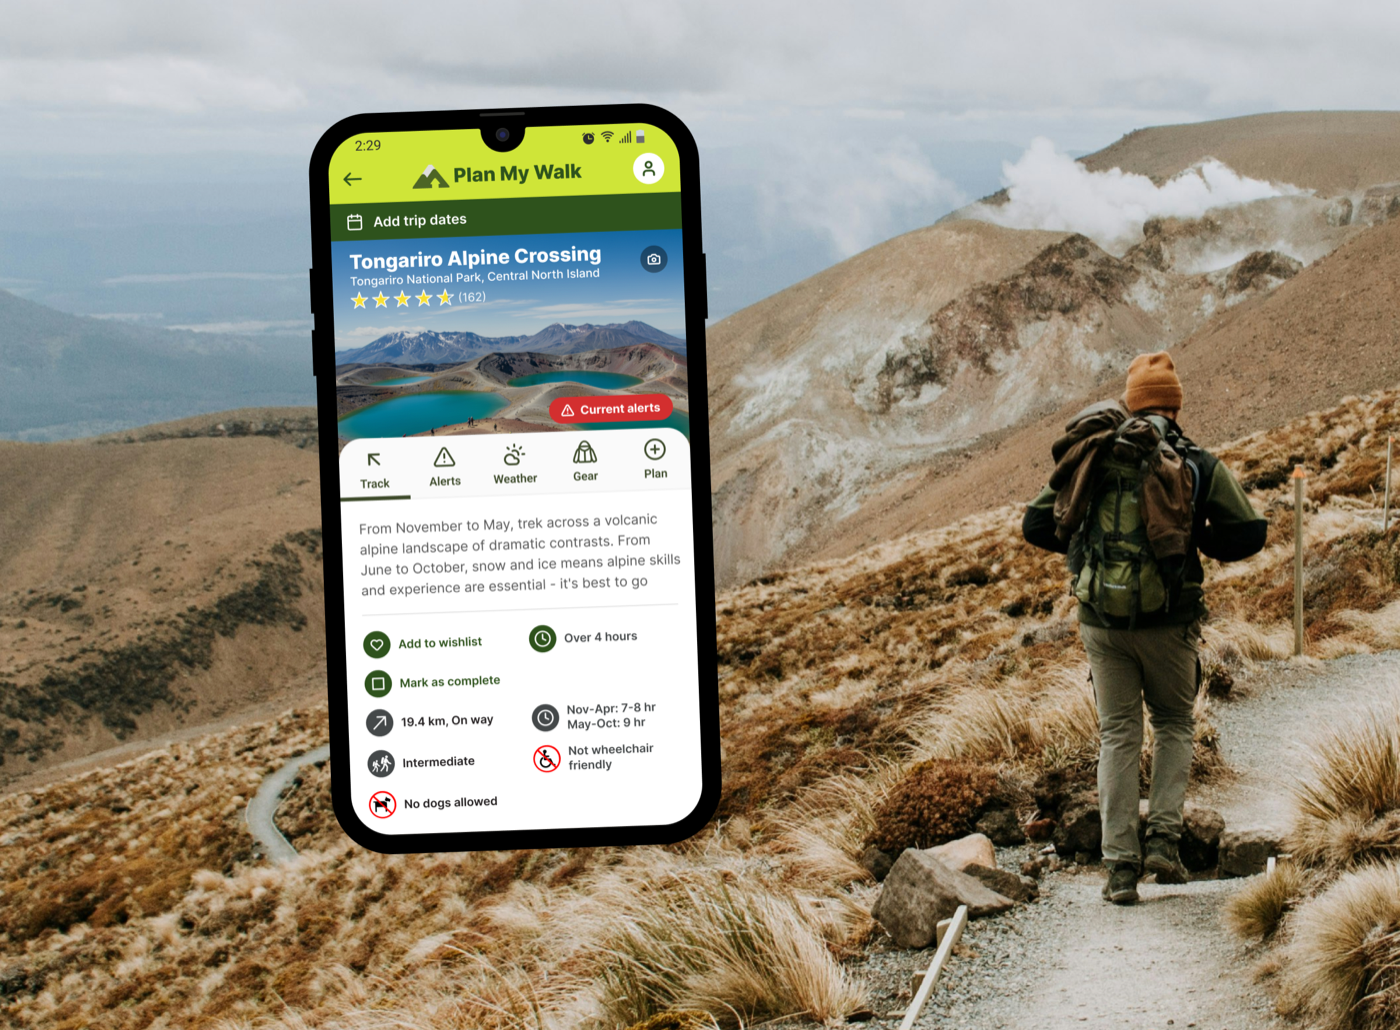
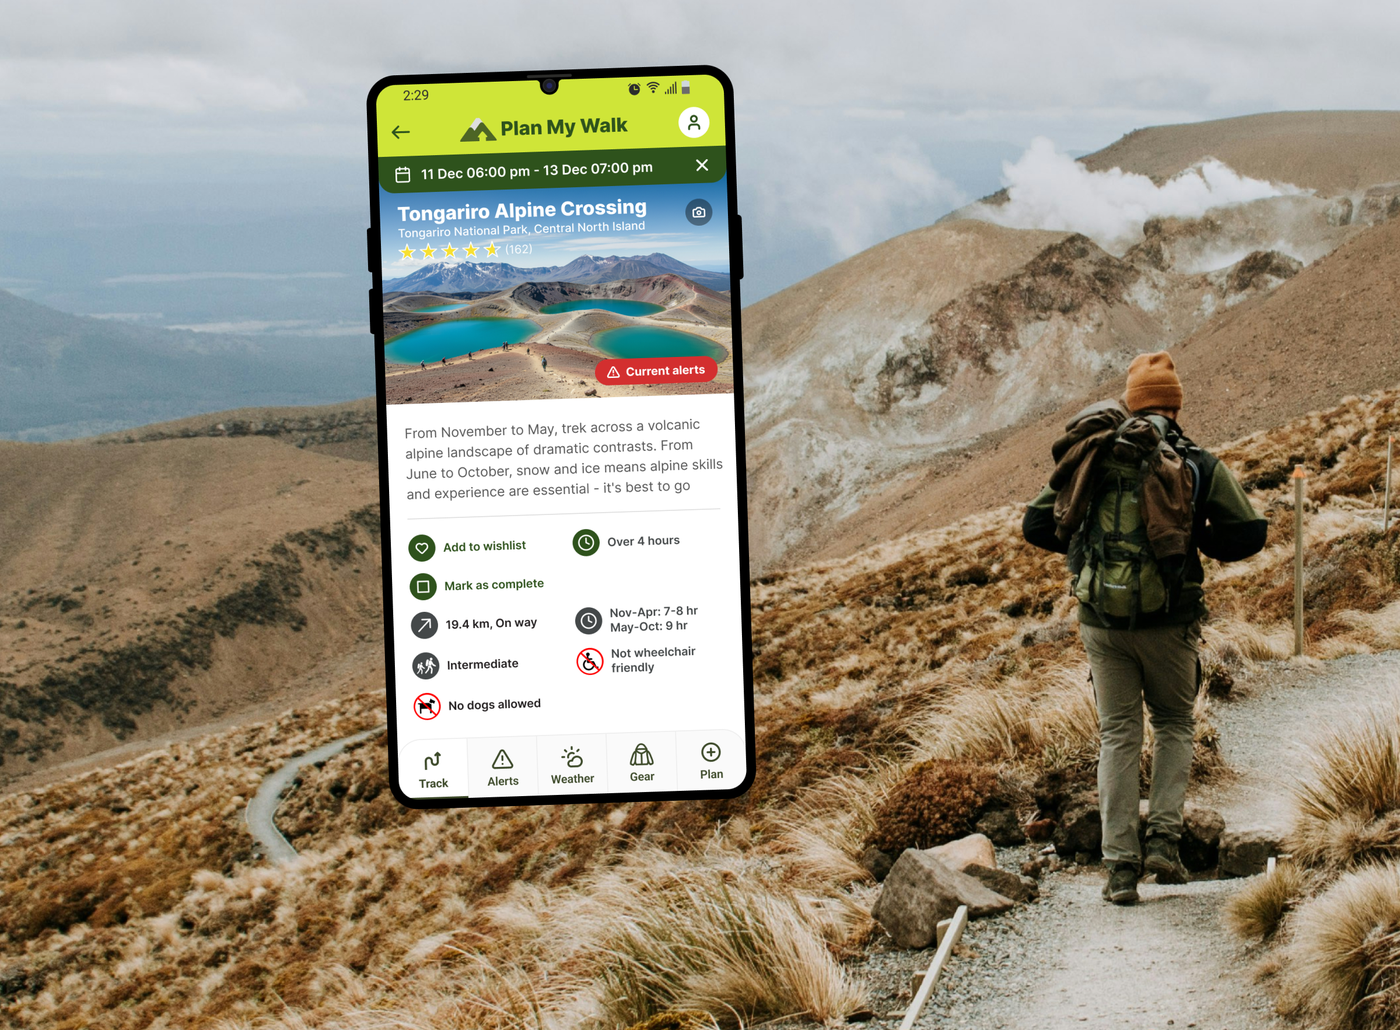
Image updates

Changed region(s): [[0.215, 0.0621, 0.5529, 0.8388]]

diff --git a/src/data/case-studies/keeping-kiwis-safe.ts b/src/data/case-studies/keeping-kiwis-safe.ts
@@ -4,15 +4,20 @@ import type { CaseStudy } from "../../lib/case-study";
 // Council. Scaffolded 2026-09-06 from Figma frame 245:233155
 // ("Case Study - keeping-kiwis-safe", file aX33B4dvgRAkY1eo6olJj6). Copy is
 // transcribed verbatim from that frame's text nodes (Figma is the source of
-// truth for this one — no handover MD). **Assets are not done yet**: every
-// image below is a placeholder (no `src`, so CaseStudyImage/Cover render a
-// labelled grey box). Wire real files under /images/keeping-kiwis-safe/
-// once exported, and revisit the image-band layouts + quote-slider
-// accentColors then. Structure mirrors farmiq-thrive.ts / design-leadership.ts.
+// truth for this one — no handover MD). Structure mirrors farmiq-thrive.ts /
+// design-leadership.ts.
+//
+// Assets (2026-09-09): all image slots wired. Eight are Sarah's own hi-res
+// composite exports from ~/Documents/New Website/Plan My Walk/; four had no
+// finished local export (Situation "sprint map", the two hand-holding-phone
+// grid shots, and the Shift snowy-mountains shot) and were taken from the
+// Figma frame exports — swap to hi-res if Sarah supplies them.
 //
 // Figma TBD slots left unfilled on purpose (don't invent filler):
 //   - The Calls I Made: a 5th slot ("MD only supplies 4 real items")
 //   - The Outcome: two extra "down" signal slots (no down-signal data)
+//   - Image grid rows 1 & 2 share placeholder captions in Figma — verbatim
+//     for now, Sarah to finalise the copy.
 export const keepingKiwisSafe: CaseStudy = {
   slug: "keeping-kiwis-safe",
   title: "The App Keeping Kiwis Safe \nOutdoors",
@@ -27,8 +32,10 @@ export const keepingKiwisSafe: CaseStudy = {
       aspect: "16/9",
     },
     deviceImage: {
+      // Hero-PMW.png — three phones: the Tongariro Northern Circuit topo map,
+      // the Alpine Crossing track screen, and a Cass-Lagoon weather forecast.
       src: "/images/keeping-kiwis-safe/cover-float.png",
-      alt: "Plan My Walk app — the Tongariro Alpine Crossing track screen",
+      alt: "Plan My Walk app — a track map, a track detail screen, and a weather forecast",
       aspect: "1800/1014",
     },
   },
@@ -54,6 +61,13 @@ export const keepingKiwisSafe: CaseStudy = {
           label: "Design recognition",
           value: "Finalist",
           context: "Best Design Awards 2022, Value of Design category.",
+          // "Best." roundel beside the Finalist value (Sarah's pre-cropped
+          // "Best Awards copy.png" — circle only, text cropped out).
+          badge: {
+            src: "/images/keeping-kiwis-safe/best-awards-badge.png",
+            alt: "Best Design Awards Finalist",
+            aspect: "1/1",
+          },
         },
       ],
       paragraphs: [
@@ -113,11 +127,8 @@ export const keepingKiwisSafe: CaseStudy = {
       ],
     },
     {
-      // Figma "Frame 28" (306:353485) — the Situation supporting images are
-      // still FarmIQ placeholders in Figma with "TBD" captions, so this band
-      // stays a placeholder here too (per Sarah: don't drop FarmIQ art in).
-      // Two stacked full-width assets in the design; modelled as one wide
-      // two-up for now.
+      // Figma "Frame 28" (306:353485), top row — old MSC "Plan My Trip" web
+      // tool vs. the Design Sprint map, full-bleed two-up.
       type: "imageBand",
       spacingBefore: "tight",
       wide: true,
@@ -125,12 +136,40 @@ export const keepingKiwisSafe: CaseStudy = {
       layout: "two-equal",
       images: [
         {
-          alt: "The old MSC website safety tool",
+          src: "/images/keeping-kiwis-safe/situation-old-tool.jpg",
+          alt: "MSC's old Plan My Trip web tool — a form of activity tiles over a mountain photo",
+          caption:
+            "Plan My Trip: fill out a form, download a PDF. Not how people actually plan an adventure.",
+          captionTone: "light",
           aspect: "600/400",
         },
         {
-          alt: "Plan My Walk app replacing the web tool",
+          src: "/images/keeping-kiwis-safe/situation-sprint-map.jpg",
+          alt: "A topo map with track markers and a Cass Saddle Hut detail card",
+          caption:
+            "In the Design Sprint with the experts in the room we co-designed the solution.",
+          captionTone: "light",
           aspect: "600/400",
+        },
+      ],
+    },
+    {
+      // Figma "Frame 28" (306:353485), lower row — the 5-phase Design Sprint
+      // diagram (Understand / Sketch / Decide / Prototype / Test) on a topo
+      // map ground. Kept at the export's native ~3.04 ratio so no phase card
+      // clips. Caption sits on the light map, so dark text, no scrim.
+      type: "imageBand",
+      spacingBefore: "tighter",
+      wide: true,
+      background: "dots",
+      layout: "single",
+      images: [
+        {
+          src: "/images/keeping-kiwis-safe/situation-design-sprint.jpg",
+          alt: "Design Sprint phases: Understand, Sketch, Decide, Prototype, Test",
+          caption: "Design Sprint",
+          captionTone: "dark",
+          aspect: "2400/790",
         },
       ],
     },
@@ -188,51 +227,24 @@ export const keepingKiwisSafe: CaseStudy = {
         "**Plan** — A trip planner that ties it together: add the people joining, set an emergency contact, upload trip notes. If someone hasn’t returned by their planned date, their emergency contact is prompted to call Search & Rescue, turning a simple trip plan into a real safety mechanism, not just a checklist.",
         "Once the plan is complete, share it and go, peace of mind that if something goes wrong, help is already on the way. Free to use, and made by trampers, for trampers.",
       ],
+      // Figma 306:353591 — 339px square asset, 71px gap to the copy column.
+      imageMaxWidth: 339,
+      copyImageGap: 71,
       image: {
-        // TODO(Sarah): the square "Where are you going Tess?" track-search
-        // screen composited over the uphill-tramper photo (Figma 306:353592)
-        // — point me at that file.
-        alt: "Plan My Walk app — track search screen over a tramper heading uphill",
+        // Sarah's own photo (trampingbush.jpg). The Figma fill shows the full
+        // 3:2 frame height with a horizontal window (~18%–85% of width); that
+        // crop is baked into the 678² export, so object-cover has nothing left
+        // to trim.
+        src: "/images/keeping-kiwis-safe/solution-tramping-bush.jpg",
+        alt: "Two trampers with packs walking a bush track in New Zealand",
         aspect: "1/1",
       },
     },
     {
-      // Figma "Image grid" (245:233199) row 1 — three portrait shots.
-      type: "imageBand",
-      spacingBefore: "tighter",
-      wide: true,
-      background: "solid",
-      layout: "three-grid",
-      images: [
-        {
-          // TODO(Sarah): row-1 left — the create-account / track-list screens
-          // over the "people looking at mountains" photo. Which file?
-          alt: "Track search and community difficulty ratings in the app",
-          caption: "Search for a track that works for your comfort zone.",
-          captionTone: "light",
-          aspect: "400/600",
-          aspectMobile: "1/1",
-        },
-        {
-          src: "/images/keeping-kiwis-safe/grid-alerts.png",
-          alt: "Plan My Walk Alerts and Weather screens for the Tongariro Alpine Crossing",
-          caption: "DOC track & MetService weather alerts in one place.",
-          captionTone: "dark",
-          aspect: "400/600",
-          aspectMobile: "1/1",
-        },
-        {
-          src: "/images/keeping-kiwis-safe/grid-weather-map.png",
-          alt: "A tramper checking a track weather forecast on their phone over a topo map",
-          caption: "Check the weather for the time of the trip you’re planning.",
-          captionTone: "light",
-          aspect: "400/600",
-          aspectMobile: "1/1",
-        },
-      ],
-    },
-    {
-      // Figma "Image grid" (245:233199) row 2 — one full-width band.
+      // Figma image grid (322:354690) — full-bleed two-up, 6:4 each.
+      // NOTE: rows 1 & 2 carry the same two captions in Figma ("Search for
+      // a track…" / "On all tracks…") — placeholder copy Sarah still has to
+      // work through; transcribed verbatim for now, revisit before launch.
       type: "imageBand",
       spacingBefore: "tighter",
       wide: true,
@@ -240,17 +252,65 @@ export const keepingKiwisSafe: CaseStudy = {
       layout: "two-equal",
       images: [
         {
-          src: "/images/keeping-kiwis-safe/grid-gear.png",
-          alt: "A tramper ticking off a suggested gear list on their phone, gear laid out below",
+          src: "/images/keeping-kiwis-safe/grid-track-search.jpg",
+          alt: "Three phone screens: track search, the Tongariro Alpine Crossing, and a date picker",
+          caption: "Search for a track that works for your comfort zone.",
+          captionTone: "light",
+          aspect: "600/400",
+        },
+        {
+          src: "/images/keeping-kiwis-safe/grid-web-reviews.jpg",
+          alt: "The Plan My Walk web track page for the Tongariro Northern Circuit, with community reviews",
+          caption: "On all tracks you can see other’s reviews.",
+          captionTone: "light",
+          aspect: "600/400",
+        },
+      ],
+    },
+    {
+      // Figma image grid (330:357558) — row 2.
+      type: "imageBand",
+      spacingBefore: "tighter",
+      wide: true,
+      background: "solid",
+      layout: "two-equal",
+      images: [
+        {
+          src: "/images/keeping-kiwis-safe/grid-alerts-weather.jpg",
+          alt: "Three phone screens: the Alpine Crossing, MSC alerts, and a track weather forecast",
+          caption: "Search for a track that works for your comfort zone.",
+          captionTone: "light",
+          aspect: "600/400",
+        },
+        {
+          src: "/images/keeping-kiwis-safe/grid-hand-phone-map.jpg",
+          alt: "A tramper checking a track weather forecast on their phone over a paper map",
+          caption: "On all tracks you can see other’s reviews.",
+          captionTone: "light",
+          aspect: "600/400",
+        },
+      ],
+    },
+    {
+      // Figma image grid (322:354741) — row 3.
+      type: "imageBand",
+      spacingBefore: "tighter",
+      wide: true,
+      background: "solid",
+      layout: "two-equal",
+      images: [
+        {
+          src: "/images/keeping-kiwis-safe/grid-hand-phone-gear.jpg",
+          alt: "A tramper checking a suggested gear list on their phone, gear laid out on the ground",
           caption: "Tick off the gear as you prepare for your trip.",
           captionTone: "light",
           aspect: "600/400",
         },
         {
-          src: "/images/keeping-kiwis-safe/grid-plan.png",
-          alt: "Plan My Walk trip-plan and emergency-contact screens",
+          src: "/images/keeping-kiwis-safe/grid-trip-plan.jpg",
+          alt: "Three phone screens: the gear list, trip-plan builder, and shared-plan confirmation",
           caption: "Share your plan with your emergency contact.",
-          captionTone: "dark",
+          captionTone: "light",
           aspect: "600/400",
         },
       ],
@@ -264,18 +324,22 @@ export const keepingKiwisSafe: CaseStudy = {
       ],
     },
     {
-      // Figma "The Shift" band (245:233164) is still FarmIQ placeholder art
-      // — left as a placeholder here (per Sarah: no FarmIQ images).
+      // Figma "The Shift" band (328:356326) — content-column two-up (not
+      // full-bleed), no overlay captions; the italic line below is Figma's
+      // standalone note (316:354311).
       type: "imageBand",
       spacingBefore: "tight",
       layout: "two-equal",
+      note: "Every shoulder season, MSC promotes Plan My Walk with local tracks, still keeping Kiwis safe outdoors.",
       images: [
         {
-          alt: "The retired MSC web safety tool",
+          src: "/images/keeping-kiwis-safe/shift-advert.jpg",
+          alt: "The Plan My Walk home screen on a phone over a tussock ridge, a tramper with arms raised behind it",
           aspect: "600/400",
         },
         {
-          alt: "Plan My Walk usage climbing after launch",
+          src: "/images/keeping-kiwis-safe/shift-mountains.jpg",
+          alt: "A hooded tramper on a boardwalk track heading toward mist-covered snowy mountains",
           aspect: "600/400",
         },
       ],

diff --git a/src/lib/case-study.ts b/src/lib/case-study.ts
@@ -75,6 +75,11 @@ export interface StatCallout {
   label: string;
   value: string;
   context: string;
+  /**
+   * Small badge image shown beside the value (Figma's "Best." award roundel
+   * next to the Finalist stat). Rendered ~72px tall, alpha preserved.
+   */
+  badge?: CaseStudyImage;
 }
 
 export interface NumberedItem {
@@ -147,6 +152,17 @@ export type CaseStudySection = (
       heading: string;
       paragraphs: string[];
       image: CaseStudyImage;
+      /**
+       * Desktop max-width of the image column in px, from the Figma asset
+       * frame. Defaults to 267 (the farmiq-thrive portrait slot the shared
+       * layout was first built for).
+       */
+      imageMaxWidth?: number;
+      /**
+       * Desktop gap between the copy column and the image, in px, from the
+       * Figma spacing. Defaults to 40 (`--spacing-lg`).
+       */
+      copyImageGap?: number;
     }
   | {
       type: "imageBand";
@@ -160,6 +176,12 @@ export type CaseStudySection = (
       images: CaseStudyImage[];
       /** Breaks out to the full 1440 canvas instead of the 1010 content column (Figma's "Image grid" band). */
       wide?: boolean;
+      /**
+       * Italic caption printed below the whole band (not overlaid on an
+       * image) — Figma's standalone note under a band, e.g. the Shift
+       * band's "Every shoulder season, MSC promotes Plan My Walk…".
+       */
+      note?: string;
     }
   | {
       type: "numberedList";
